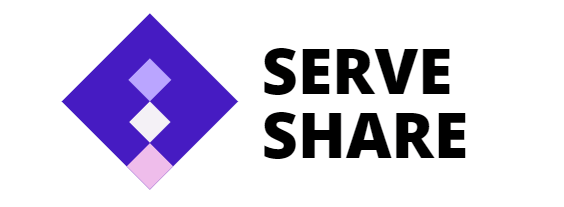
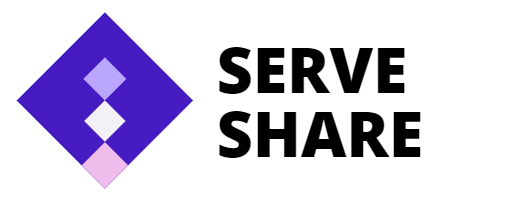
Added potential tagline

Changed region(s): [[0.0308, 0.0585, 0.8324, 0.9366]]

diff --git a/frontend/src/Buyer Page.html b/frontend/src/Buyer Page.html
@@ -10,9 +10,9 @@
 </head>
 <body>
 
-<!-- Garbage ass navbar -->
+<!-- Garbage a$$ navbar -->
 <nav class="navbar navbar-expand-lg navbar-light bg-light">
-    <img src="serveShare.png" style = "height: 80px; width: 240px; margin: 0px 0px">
+    <img src="serveShare.png" style = "height: 90px; width: 260px; margin: 0px 0px">
     <!--a class="navbar-brand" href="#">Hosting</a-->
 
     <form class="form-inline my-2 my-lg-0">
@@ -24,7 +24,7 @@
 
     <form class="form-inline my-2 my-lg-0">
         <!--input class="form-control mr-sm-2" type="search" placeholder="Search" aria-label="Search"-->
-        <button class="btn btn-outline-dark my-2 my-sm-0" type="Buying" style = "margin: 5px">Buying</button>
+        <button class="btn btn-outline-dark my-2 my-sm-0" type="Buying" style = "margin: 10px">Buying</button>
     </form>
 
     <button class="navbar-toggler" type="button" data-toggle="collapse" data-target="#navbarSupportedContent" aria-controls="navbarSupportedContent" aria-expanded="false" aria-label="Toggle navigation">
@@ -46,7 +46,7 @@
 <div class="container-fluid">
     <div class="row">
         <div id="input" class="col-sm">
-            <label for="inputForm" style="margin-top: 16px; font-weight: bold">STAND IN TITLE</label>
+            <label for="inputForm" style="margin-top: 16px; font-weight: bold"> Decentralized Server Provider — brought to you by Lamden Smart Contracts</label>
             <form id="inputForm">
                 <div class="custom-file mt-3 mb-3">
                     <input type="file" class="custom-file-input" id="customFile">
